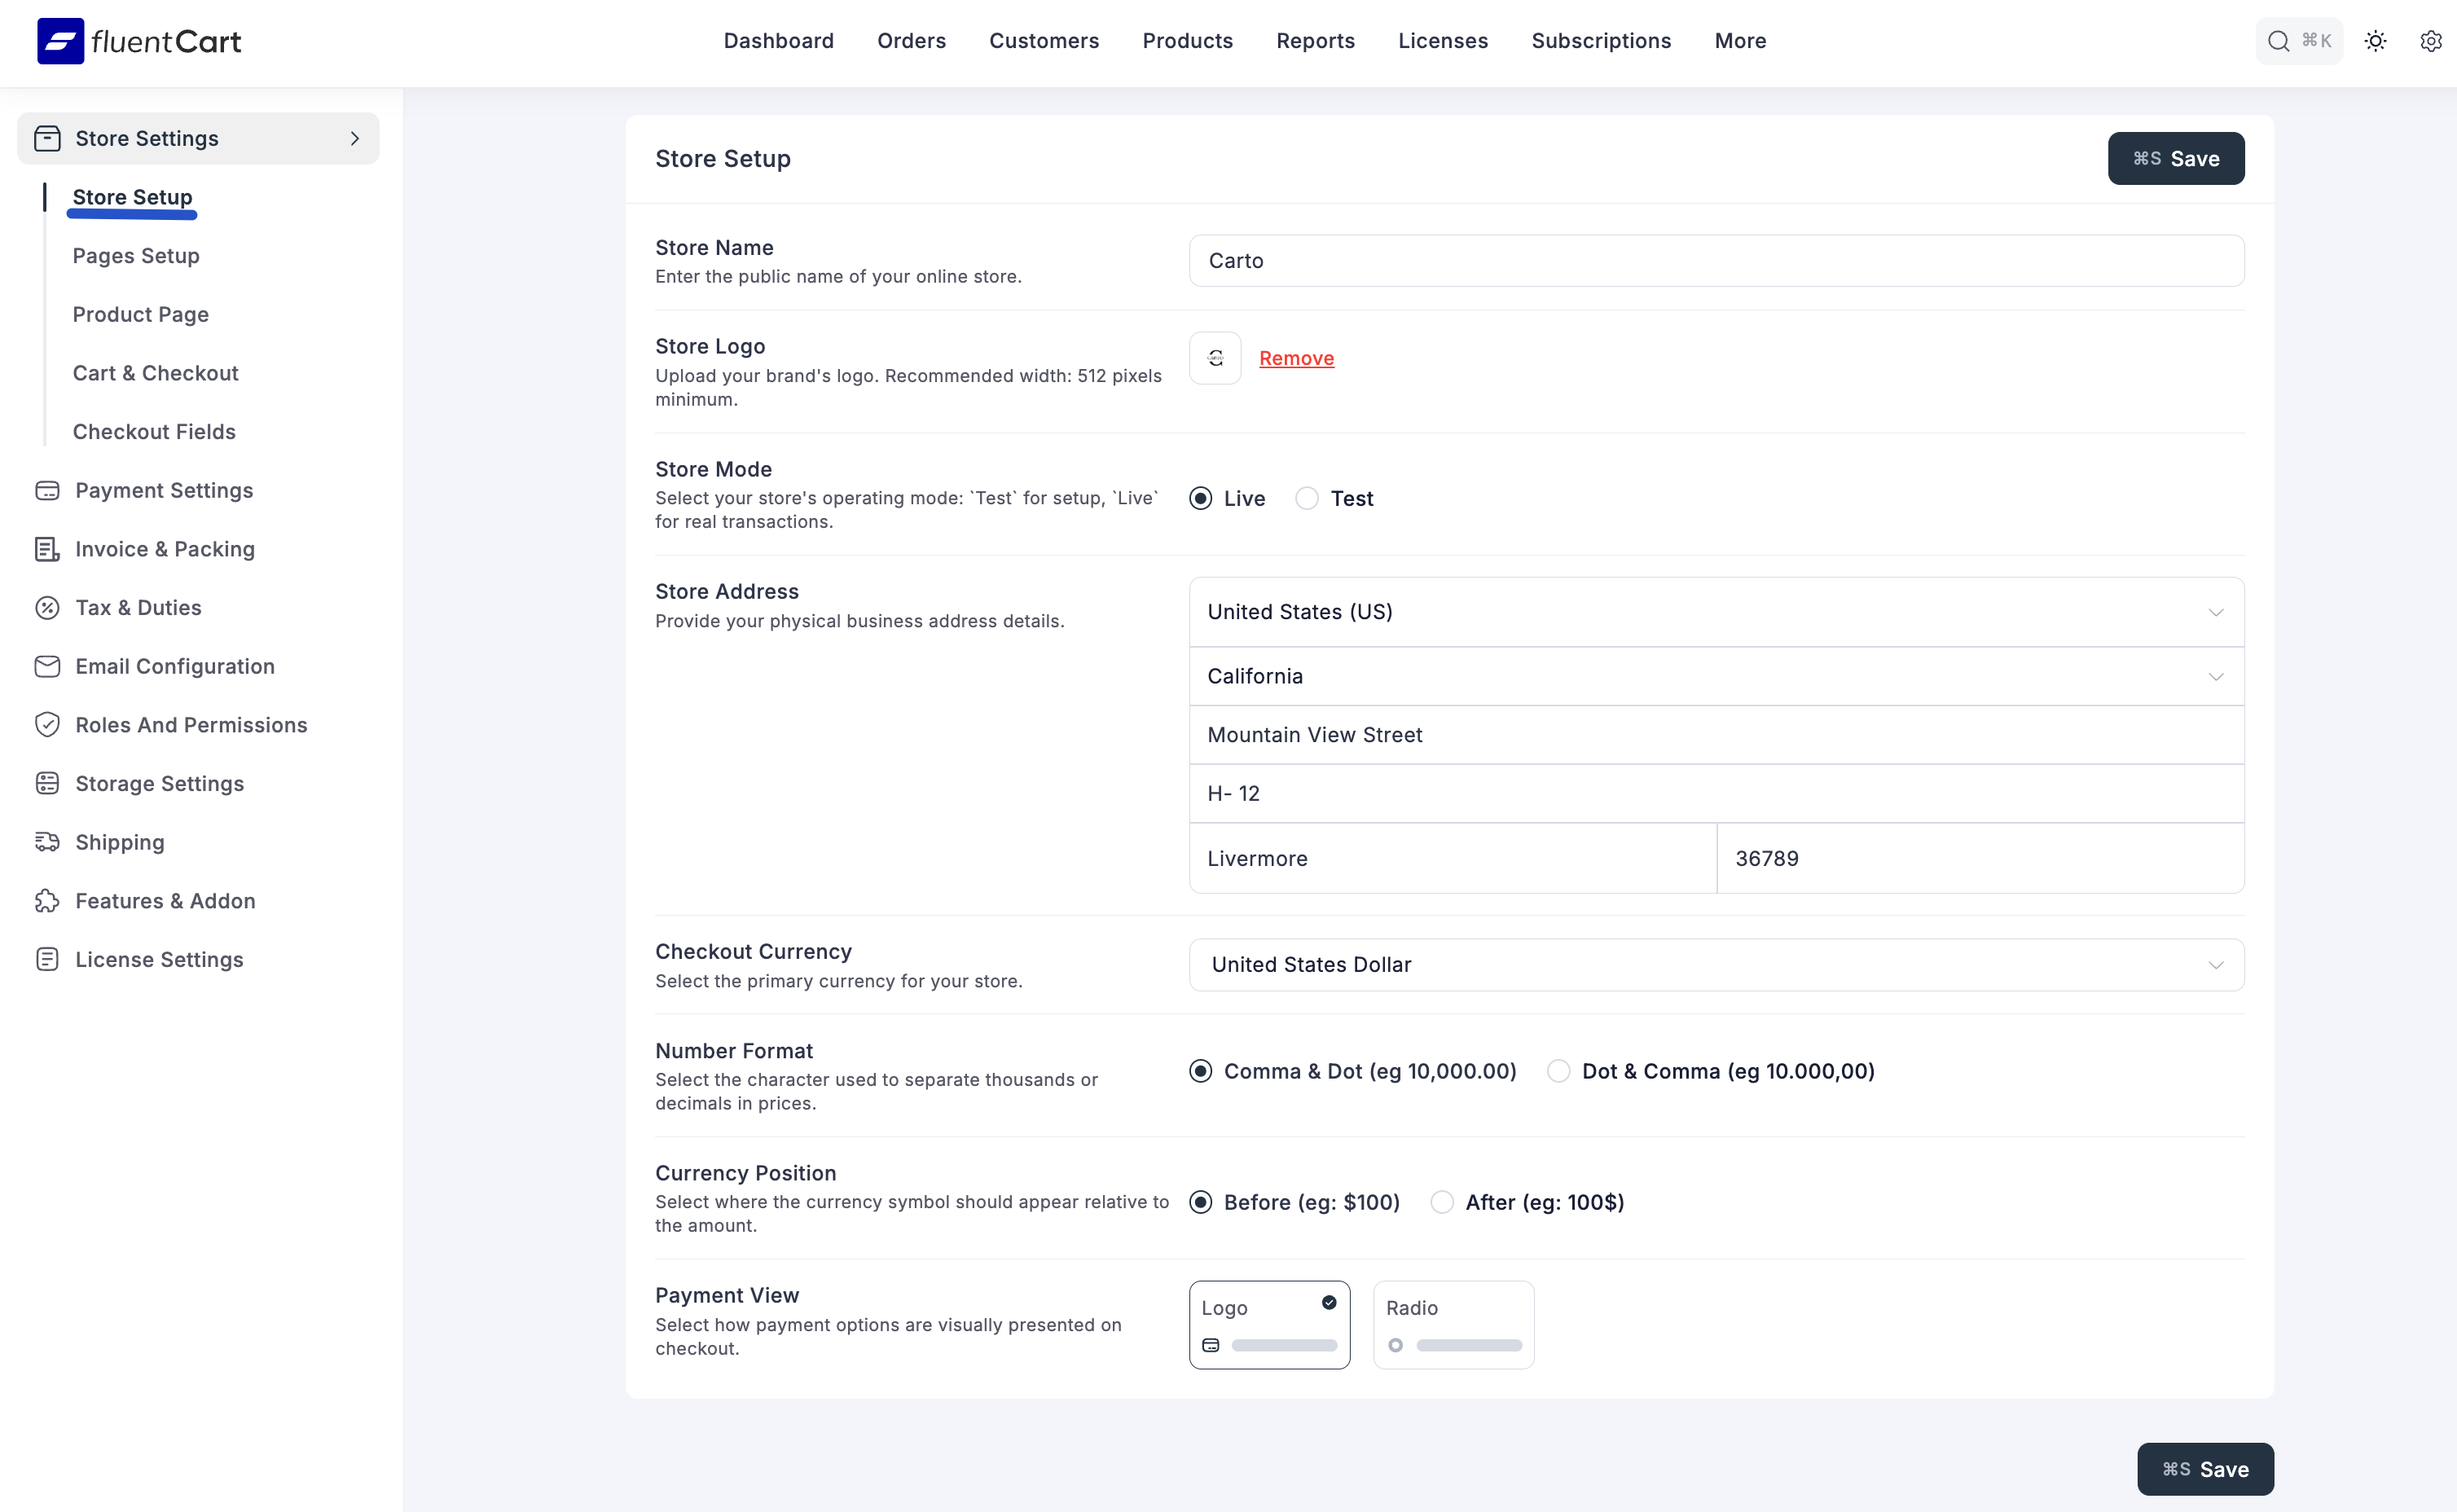
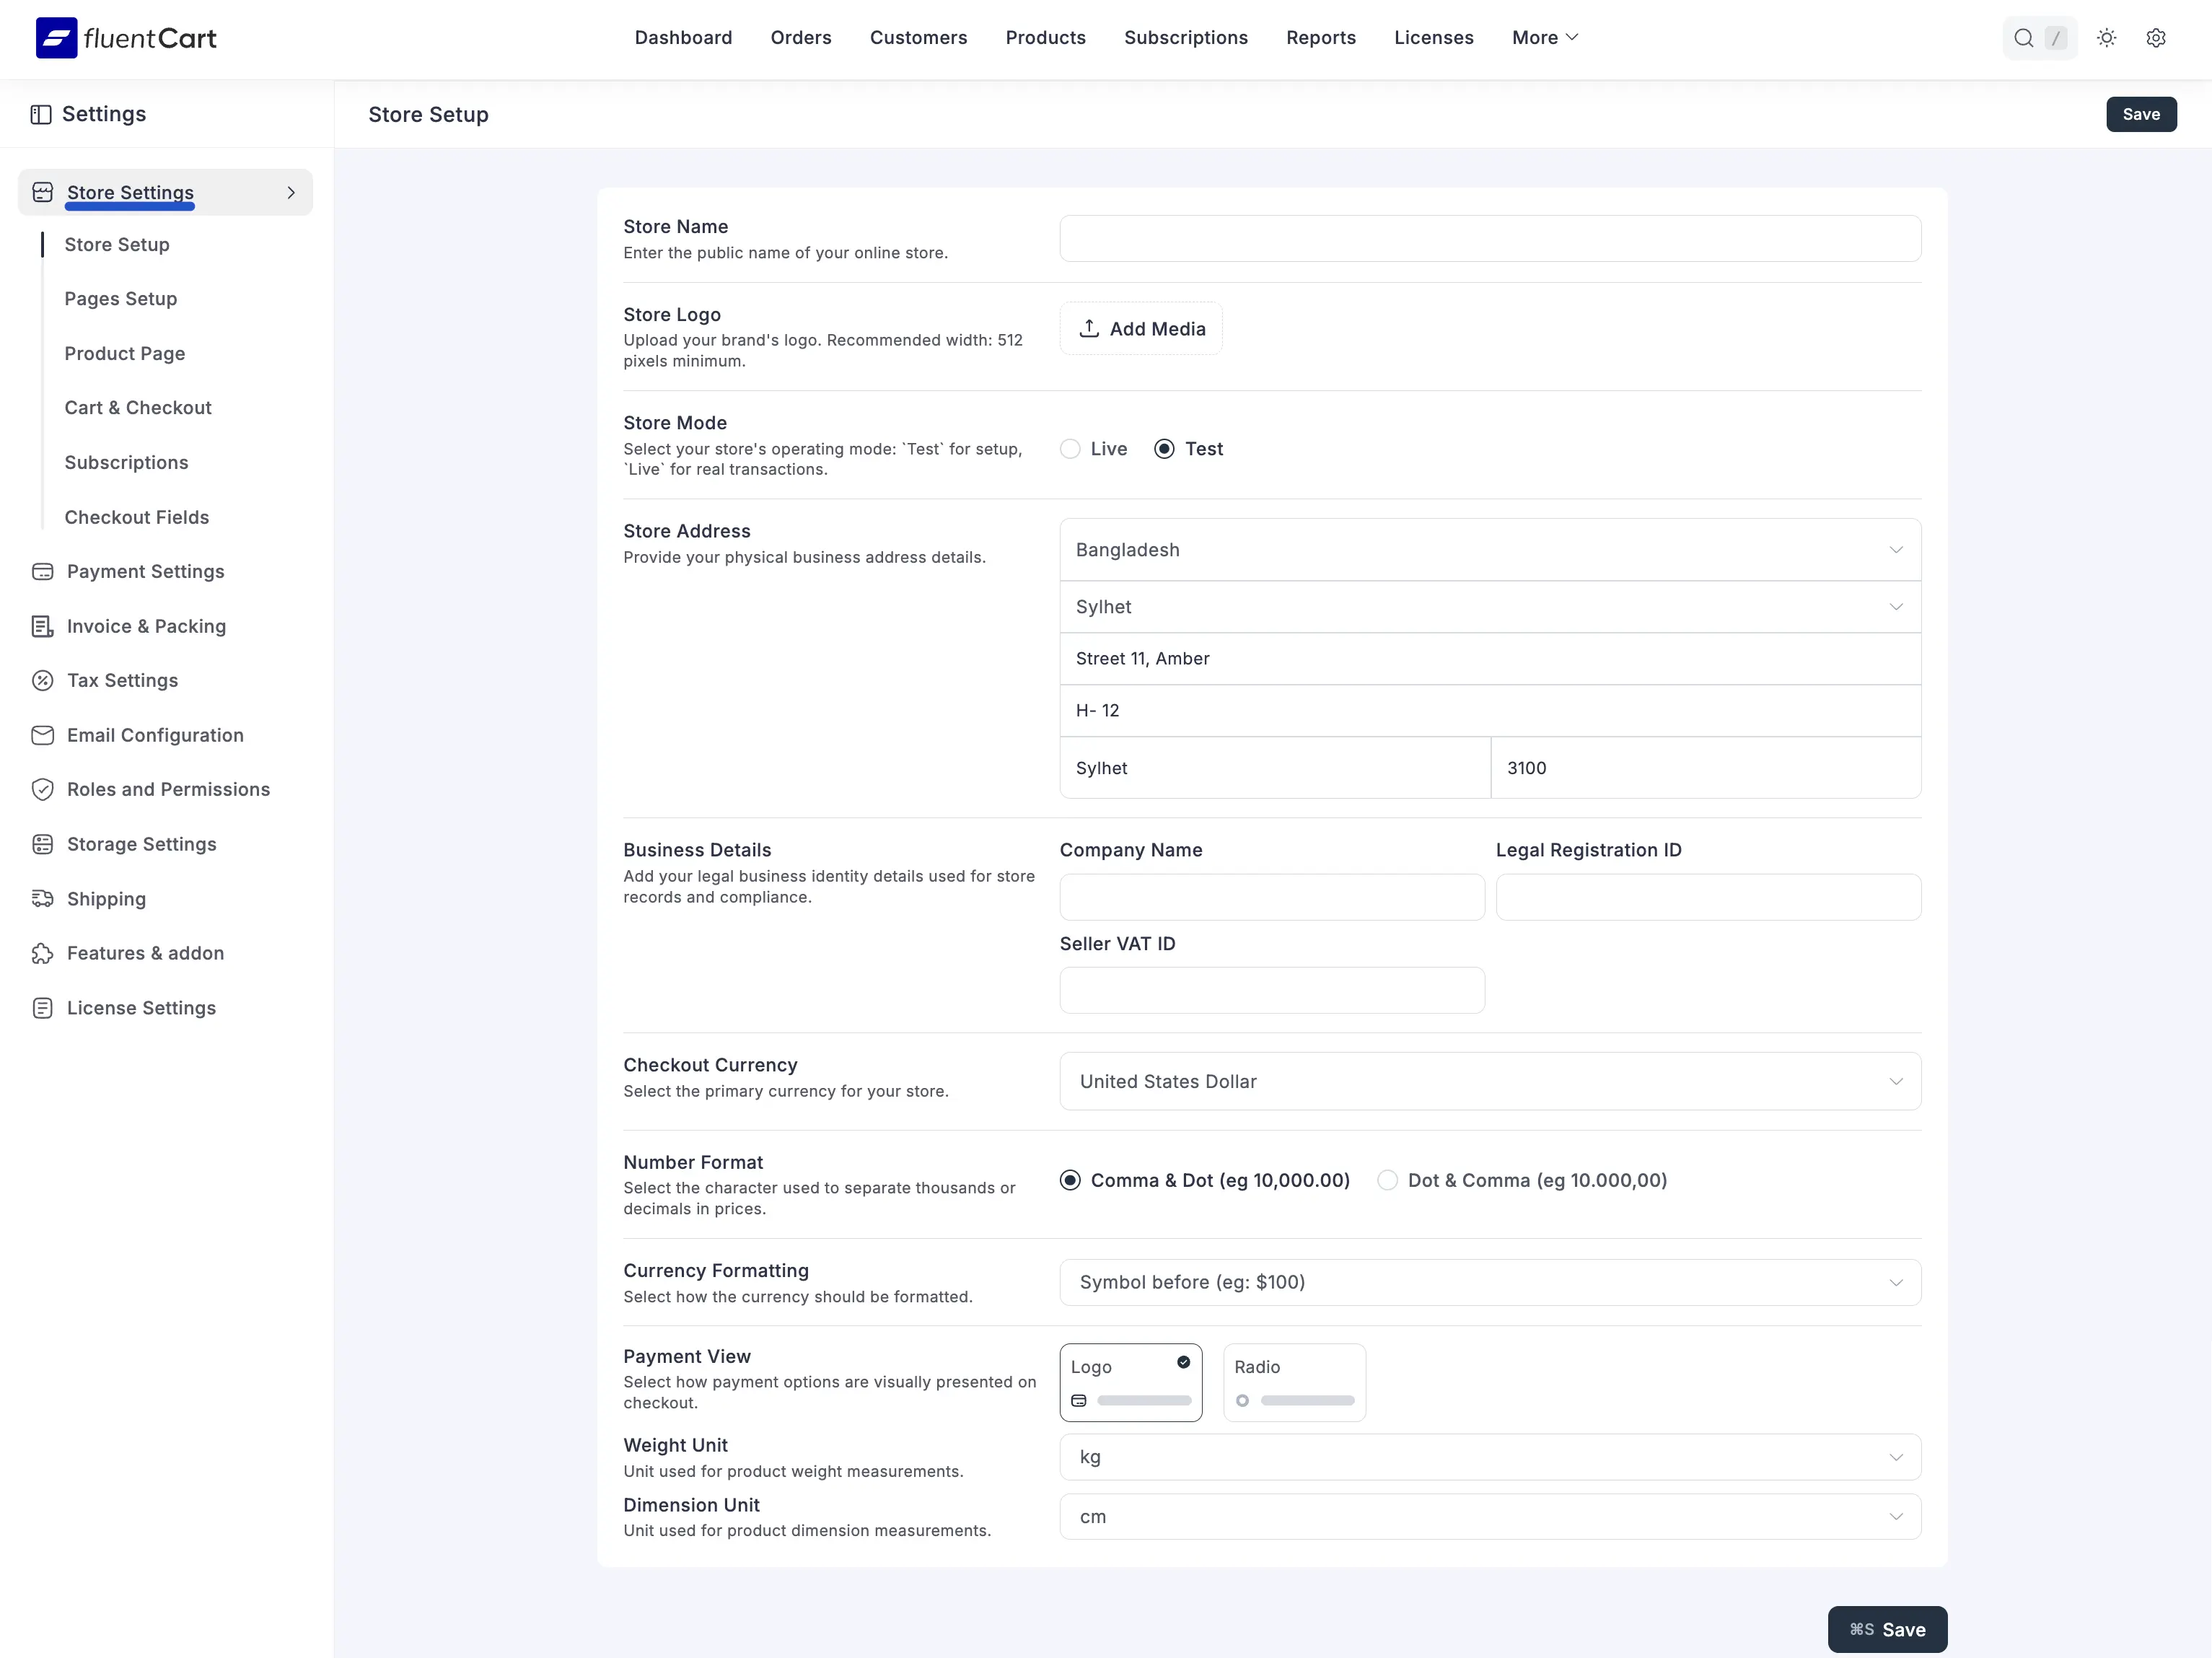
Tax old images removed

diff --git a/guide/settings-configuration/store-settings.md b/guide/settings-configuration/store-settings.md
@@ -1,42 +1,43 @@
- # Store Settings
+# Store Settings
 
-The **Store Settings** screen is where you configure the fundamental information about your FluentCart store. This includes your store's name, logo, physical address, and essential currency settings, all of which are crucial for the basic operation and branding of your online business.
+The **Store Setup** tab is where you configure the fundamental information about your FluentCart store: your store's name, logo, physical address, business details, currency, payment view, and units of measurement. These values feed into receipts, emails, checkout, shipping calculations, and tax handling, so it's the first screen to configure on a fresh install.
 
-## Accessing General Settings
+## Accessing the Store Setup Tab
 
-Go to your WordPress dashboard, then go to **FluentCart Pro** > **Settings** in the side menu, and click on the **Pages Setup** tab.
+1. From your WordPress dashboard, go to **FluentCart > Settings**.
+2. In the left-hand menu, click **Store Settings**. The group expands.
+3. Click **Store Setup** to open the tab.
+
+![Screenshot of the full Store Setup tab](/images/settings-configuration/store-setting/store-settings-setup.webp)
 
 ## Configuring Your Store Details
 
-### 1. General Information
+### 1. Store Name and Logo
 
-* **Store Name:** Enter the official name of your online store. This name will often appear in various parts of your store, emails, and reports.
-* **Store Logo:** You can upload your brand's logo here. This logo may be used in receipts, invoices, or other areas of your store.
-    * Click the **"Remove"** button if you wish to remove an existing logo.
+* **Store Name:** The public name of your online store. This name appears in your storefront header, transactional emails, receipts, and reports.
+* **Store Logo:** Click **Add Media** to upload your brand's logo. Recommended width is 512 pixels minimum. The logo is used in receipts, invoices, and other store documents.
 
 ### 2. Store Mode
 
-Select your store's current operating mode. This is a critical setting that controls whether your store can process real payments.
+Select your store's operating mode. This is a critical setting that controls whether your store processes real payments.
 
-* **Live:** This is the standard mode for an active store. In **Live** mode, all transactions are real, and your payment gateways will process actual payments from customers.
-* **Test:** This mode is designed for development and setup purposes. When **Test** mode is active, you can place test orders using dummy payment details without any real money being charged.
+* **Live:** The standard mode for an active store. In **Live** mode, all transactions are real and your payment gateways process actual payments.
+* **Test:** Designed for setup, development, and rehearsal. In **Test** mode you can place dummy orders without any money changing hands.
 
 ::: info
-This setting is directly linked to your payment gateways. When you set the store to **Live Mode**, your payment methods will also switch to their live settings. When you select **Test Mode**, your payment gateways will automatically use their test or "sandbox" credentials.
+This setting is directly linked to your payment gateways. When you set the store to **Live**, your payment methods also switch to their live credentials. When you switch to **Test**, your payment gateways automatically use their sandbox credentials.
 :::
 
 ### 3. Store Address
 
-Provide your physical business address details. This information can be used for PayPal, shipping calculations, tax purposes, and displayed in various store documents.
+Provide your physical business address. FluentCart uses this for PayPal verification, default shipping calculations, tax base lookups, and as the address displayed on receipts and other store documents.
 
-* **Country:** Select your store's country from the dropdown menu. This is used as the default country for shipping and tax calculations.
-* **District:** Enter the district, state, province, or region where your business is located.
-* **Street Address:** Provide the primary street name and number for your business location.
-* **Apt, suite, unit:** Enter any secondary address information, such as an apartment number, suite, or unit number.
-* **City/Town:** Enter the city or town where your business is located.
-* **Zip Code:** Provide the postal or zip code for your business address.
-
-    ![Screenshot of Store Settings - Store Setup Tab](/images/settings-configuration/store-setting/store-settings-setup.webp)
+* **Country:** Select your store's country from the dropdown. This is the default country for shipping and tax calculations.
+* **State / Region:** Pick the state, province, or region from the dropdown. The options shown depend on the country you selected.
+* **Street Address:** The primary street name and number for your business location.
+* **Apt, suite, unit:** Any secondary address information such as an apartment number, suite, or unit.
+* **City:** The city or town where your business is located.
+* **Postcode:** The postal or ZIP code for your business address.
 
 ### 4. Business Details
 
@@ -52,20 +53,29 @@ Below the address fields you'll find the **Business Details** block — your leg
 
 Configure the currency settings for your store's transactions.
 
-* **Checkout Currency:** Select the primary currency in which your products will be priced and payments will be processed.
-* **Number Format:** This setting lets you choose how numbers, especially prices, are shown in your store. It controls whether you use commas or dots to separate thousands and decimals.
-* **Currency Position:** Select where the currency symbol should appear relative to the amount.
-
-    ![Screenshot of Store Settings - Store Setup Tab](/images/settings-configuration/store-setting/store-currency-setup.webp)
+* **Checkout Currency:** The primary currency your products are priced in and payments are processed in. Pick from the dropdown.
+* **Number Format:** Controls how numbers (especially prices) are displayed. Choose between **Comma & Dot (eg 10,000.00)** or **Dot & Comma (eg 10.000,00)** to match your locale.
+* **Currency Formatting:** Controls where the currency symbol or code appears relative to the amount. The dropdown includes options like **Symbol before (eg: $100)**, symbol after, and currency code formatting.
 
 ### 6. Payment View
 
-The Payment View setting allows you choose how payment methods look to your customers on the checkout page. You can pick from a dropdown options:
+The **Payment View** setting controls how payment methods appear to customers on the checkout page. Pick between two visual styles:
 
-* **Logo:** This option displays the actual brand picture (logo) for each payment method (e.g., the PayPal logo instead of just the word "PayPal").
-* **Radio** This shows payment methods as simple choices you can click, like a small circle next to their name (e.g., "PayPal" as text).
+* **Logo:** Displays each payment method as its brand logo (for example, the PayPal logo rather than the word "PayPal"). Best for visually rich checkouts.
+* **Radio:** Displays each payment method as a labelled radio button. Cleaner and more compact, useful when you want the checkout to stay text-driven.
+
+### 7. Units of Measurement
+
+These two units are used across the product editor, package definitions, and shipping calculations.
+
+* **Weight Unit:** The unit used for product weight measurements. Choose from the dropdown (e.g. `kg`, `lb`, `g`, `oz`). Setting this consistently ensures carrier rates and shipping labels stay accurate.
+* **Dimension Unit:** The unit used for product dimension measurements (length, width, height). Choose from the dropdown (e.g. `cm`, `mm`, `m`, `in`).
+
+::: info
+Changing these units does not retroactively convert values you've already entered on existing products or packages. Pick the right units early in your setup so you don't have to re-enter measurements later.
+:::
 
 ## Saving Your Settings
 
-After making any changes to your General Settings, remember to click the **"Save Settings"** button at the bottom right of the screen to apply your configurations.
+Click the **Save** button at the top right of the screen to apply your changes. You can also press **Cmd+S** (macOS) or **Ctrl+S** (Windows/Linux) to save without leaving the keyboard.
 

diff --git a/guide/tax-&-duties/tax-filing.md b/guide/tax-&-duties/tax-filing.md
@@ -16,7 +16,7 @@ This will take you to the main Taxes screen, where you'll see a comprehensive ta
 The Taxes screen is the reporting view for the rates you've already configured on the [Tax Regions](/guide/tax-&-duties/tax-rates) and [EU VAT](/guide/tax-&-duties/european-union-vat) pages. Set those up first if you're starting fresh — there's nothing to file until orders have been placed against active rates.
 :::
 
-![Tax Filing](/guide/public/images/tax/tax-filing/tax-filing-1.png)
+![Screenshot of the Taxes screen with the collected-tax table]()
 
 ### Reviewing Your Collected Taxes
 
@@ -46,7 +46,7 @@ Before clicking the main button, you must select which tax records you want to i
 
 Once you have selected the desired tax records, click the **Tax Filing** button at the top right of the screen.
 
-![Tax Filing](/guide/public/images/tax/tax-filing/tax-filing-2.png)
+![Screenshot of the Tax Filing summary modal with the selected records]()
 
 A pop-up window will appear, showing a summary of the taxes you have selected.
 
@@ -64,7 +64,7 @@ Review this information to ensure it is correct.
 
 Click the **Download & Continue** button. This action performs two important tasks simultaneously:
 
-![Tax Filing](/guide/public/images/tax/tax-filing/tax-filing-3.png)
+![Screenshot of the Download & Continue confirmation step]()
 
 1.  It downloads a **CSV file** to your computer. This file contains a detailed breakdown of all the tax records you selected, which you can use for your accounting or to file your tax returns with the relevant authorities.
 2.  It marks all the selected tax records as **"Filed"** within FluentCart. Their "Filed" status will change to "Yes," so you know they have been processed.